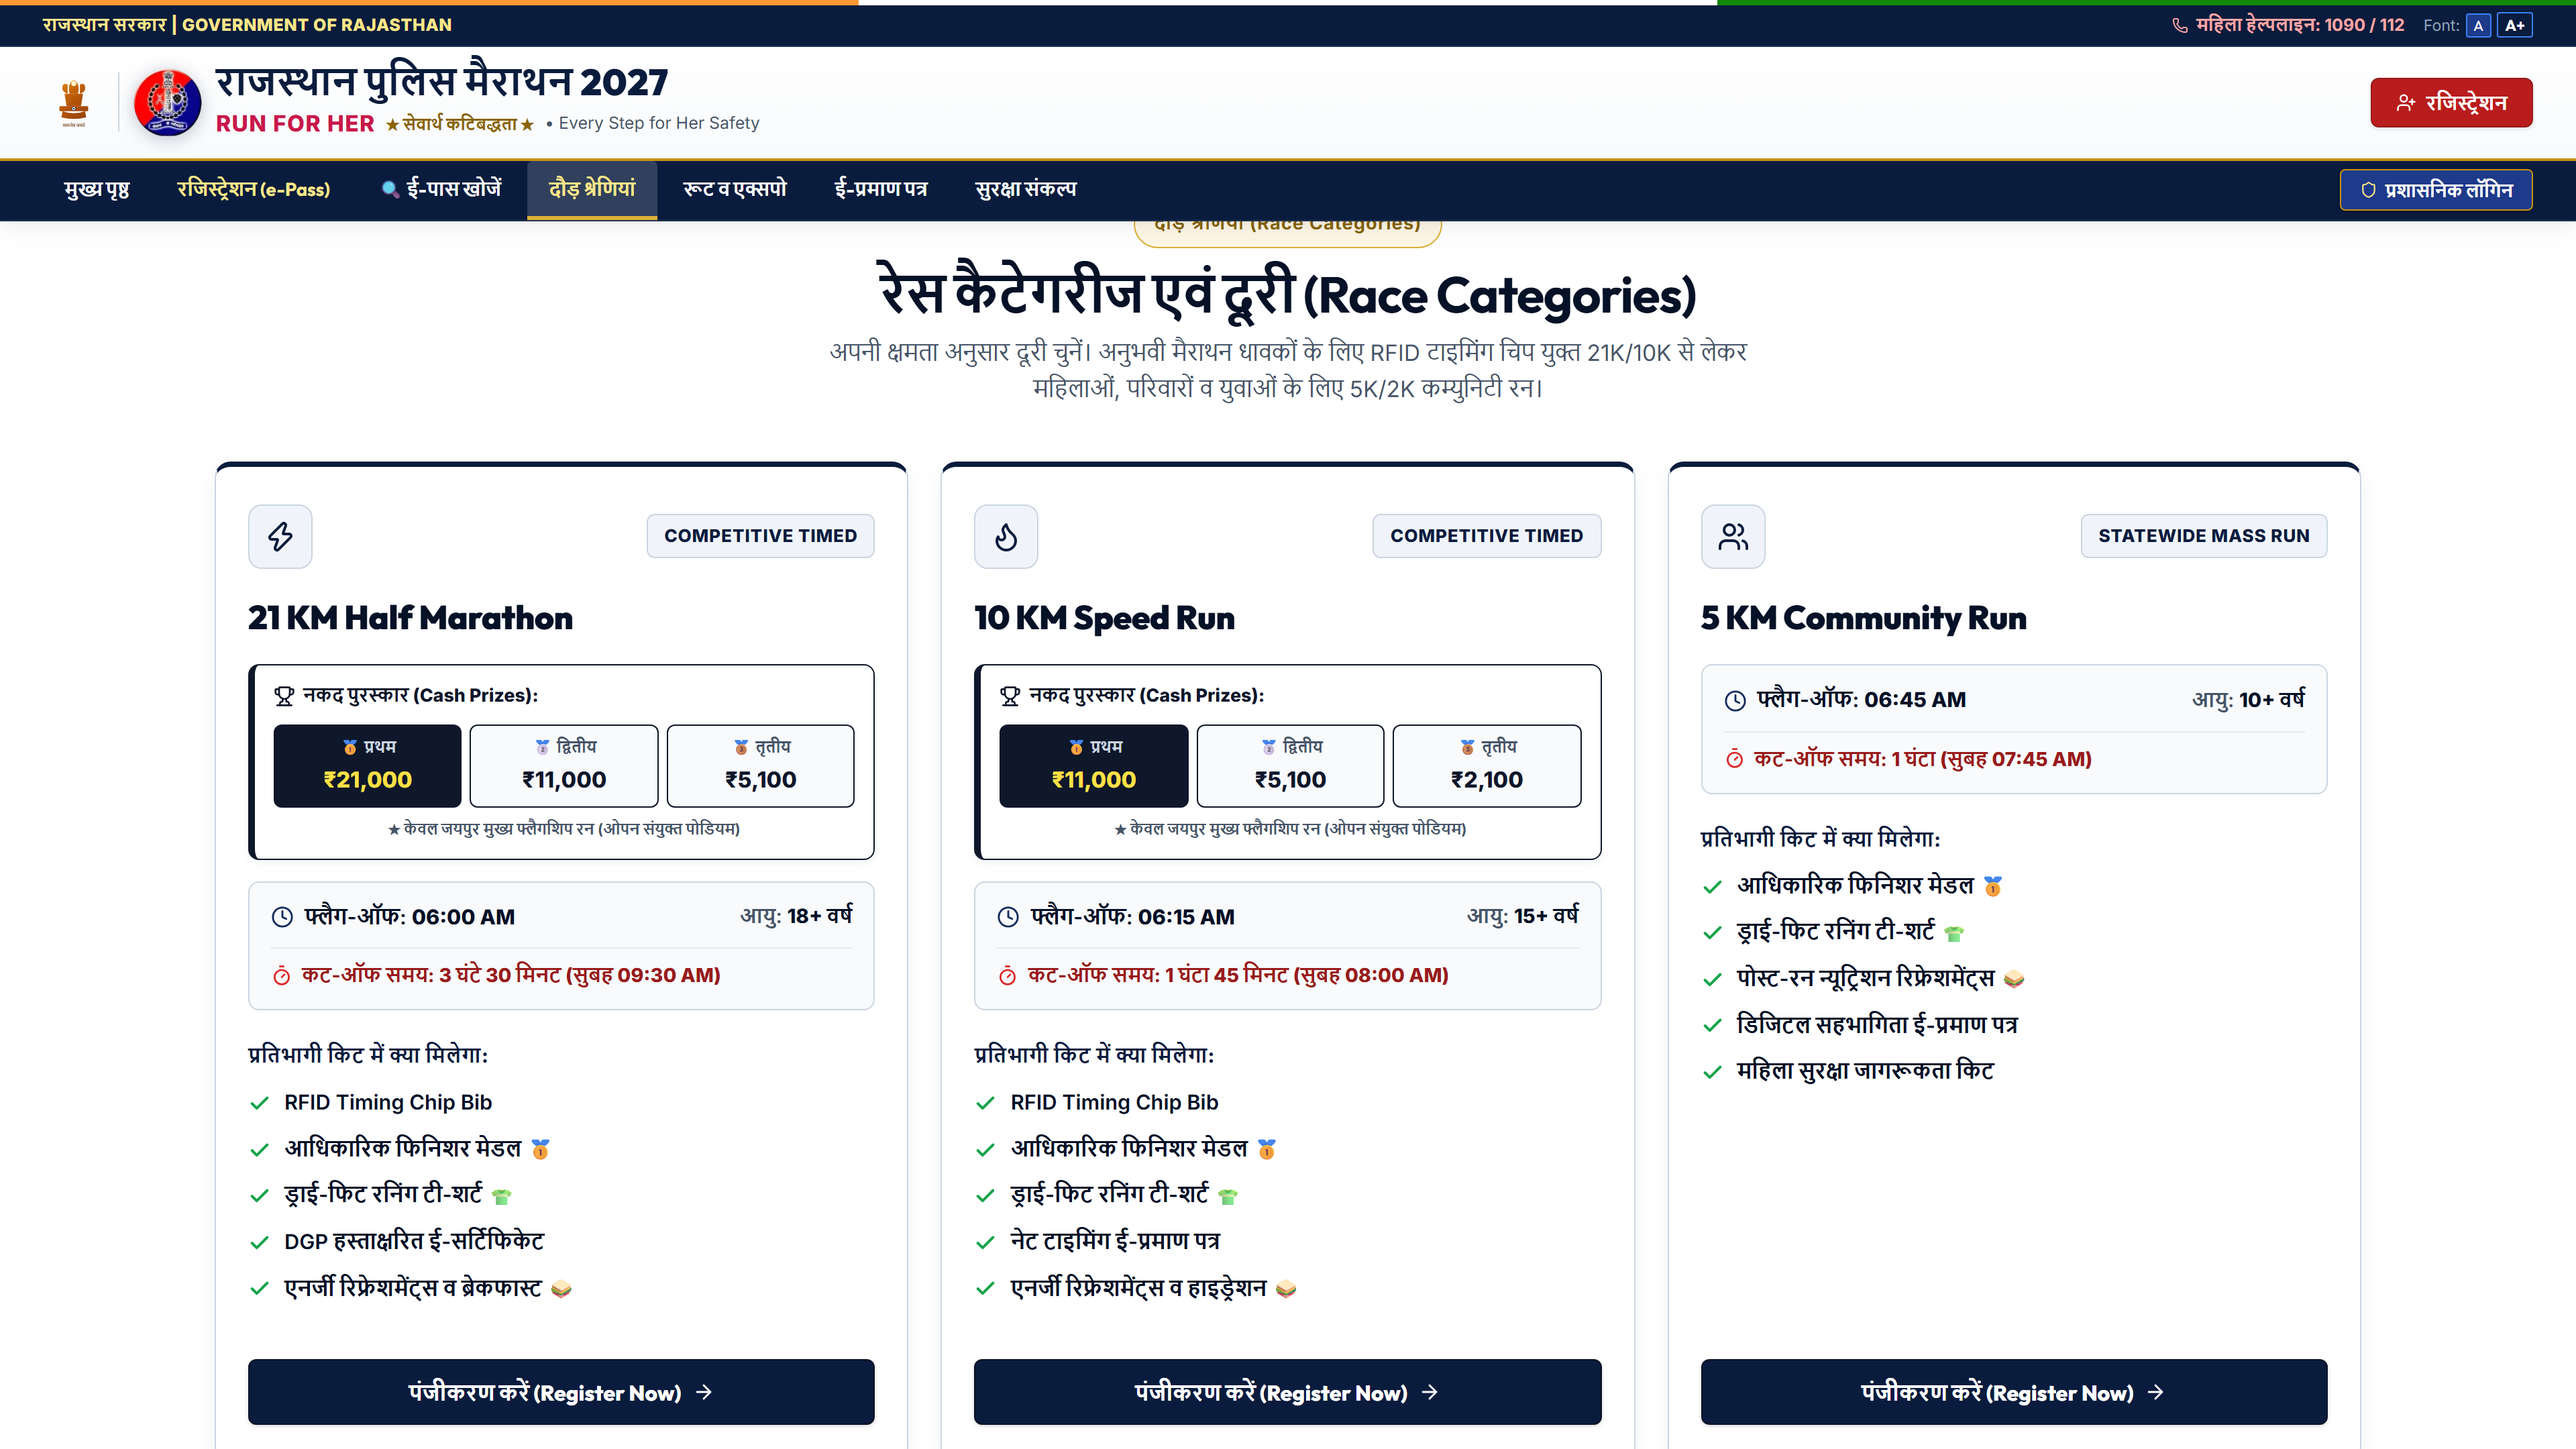
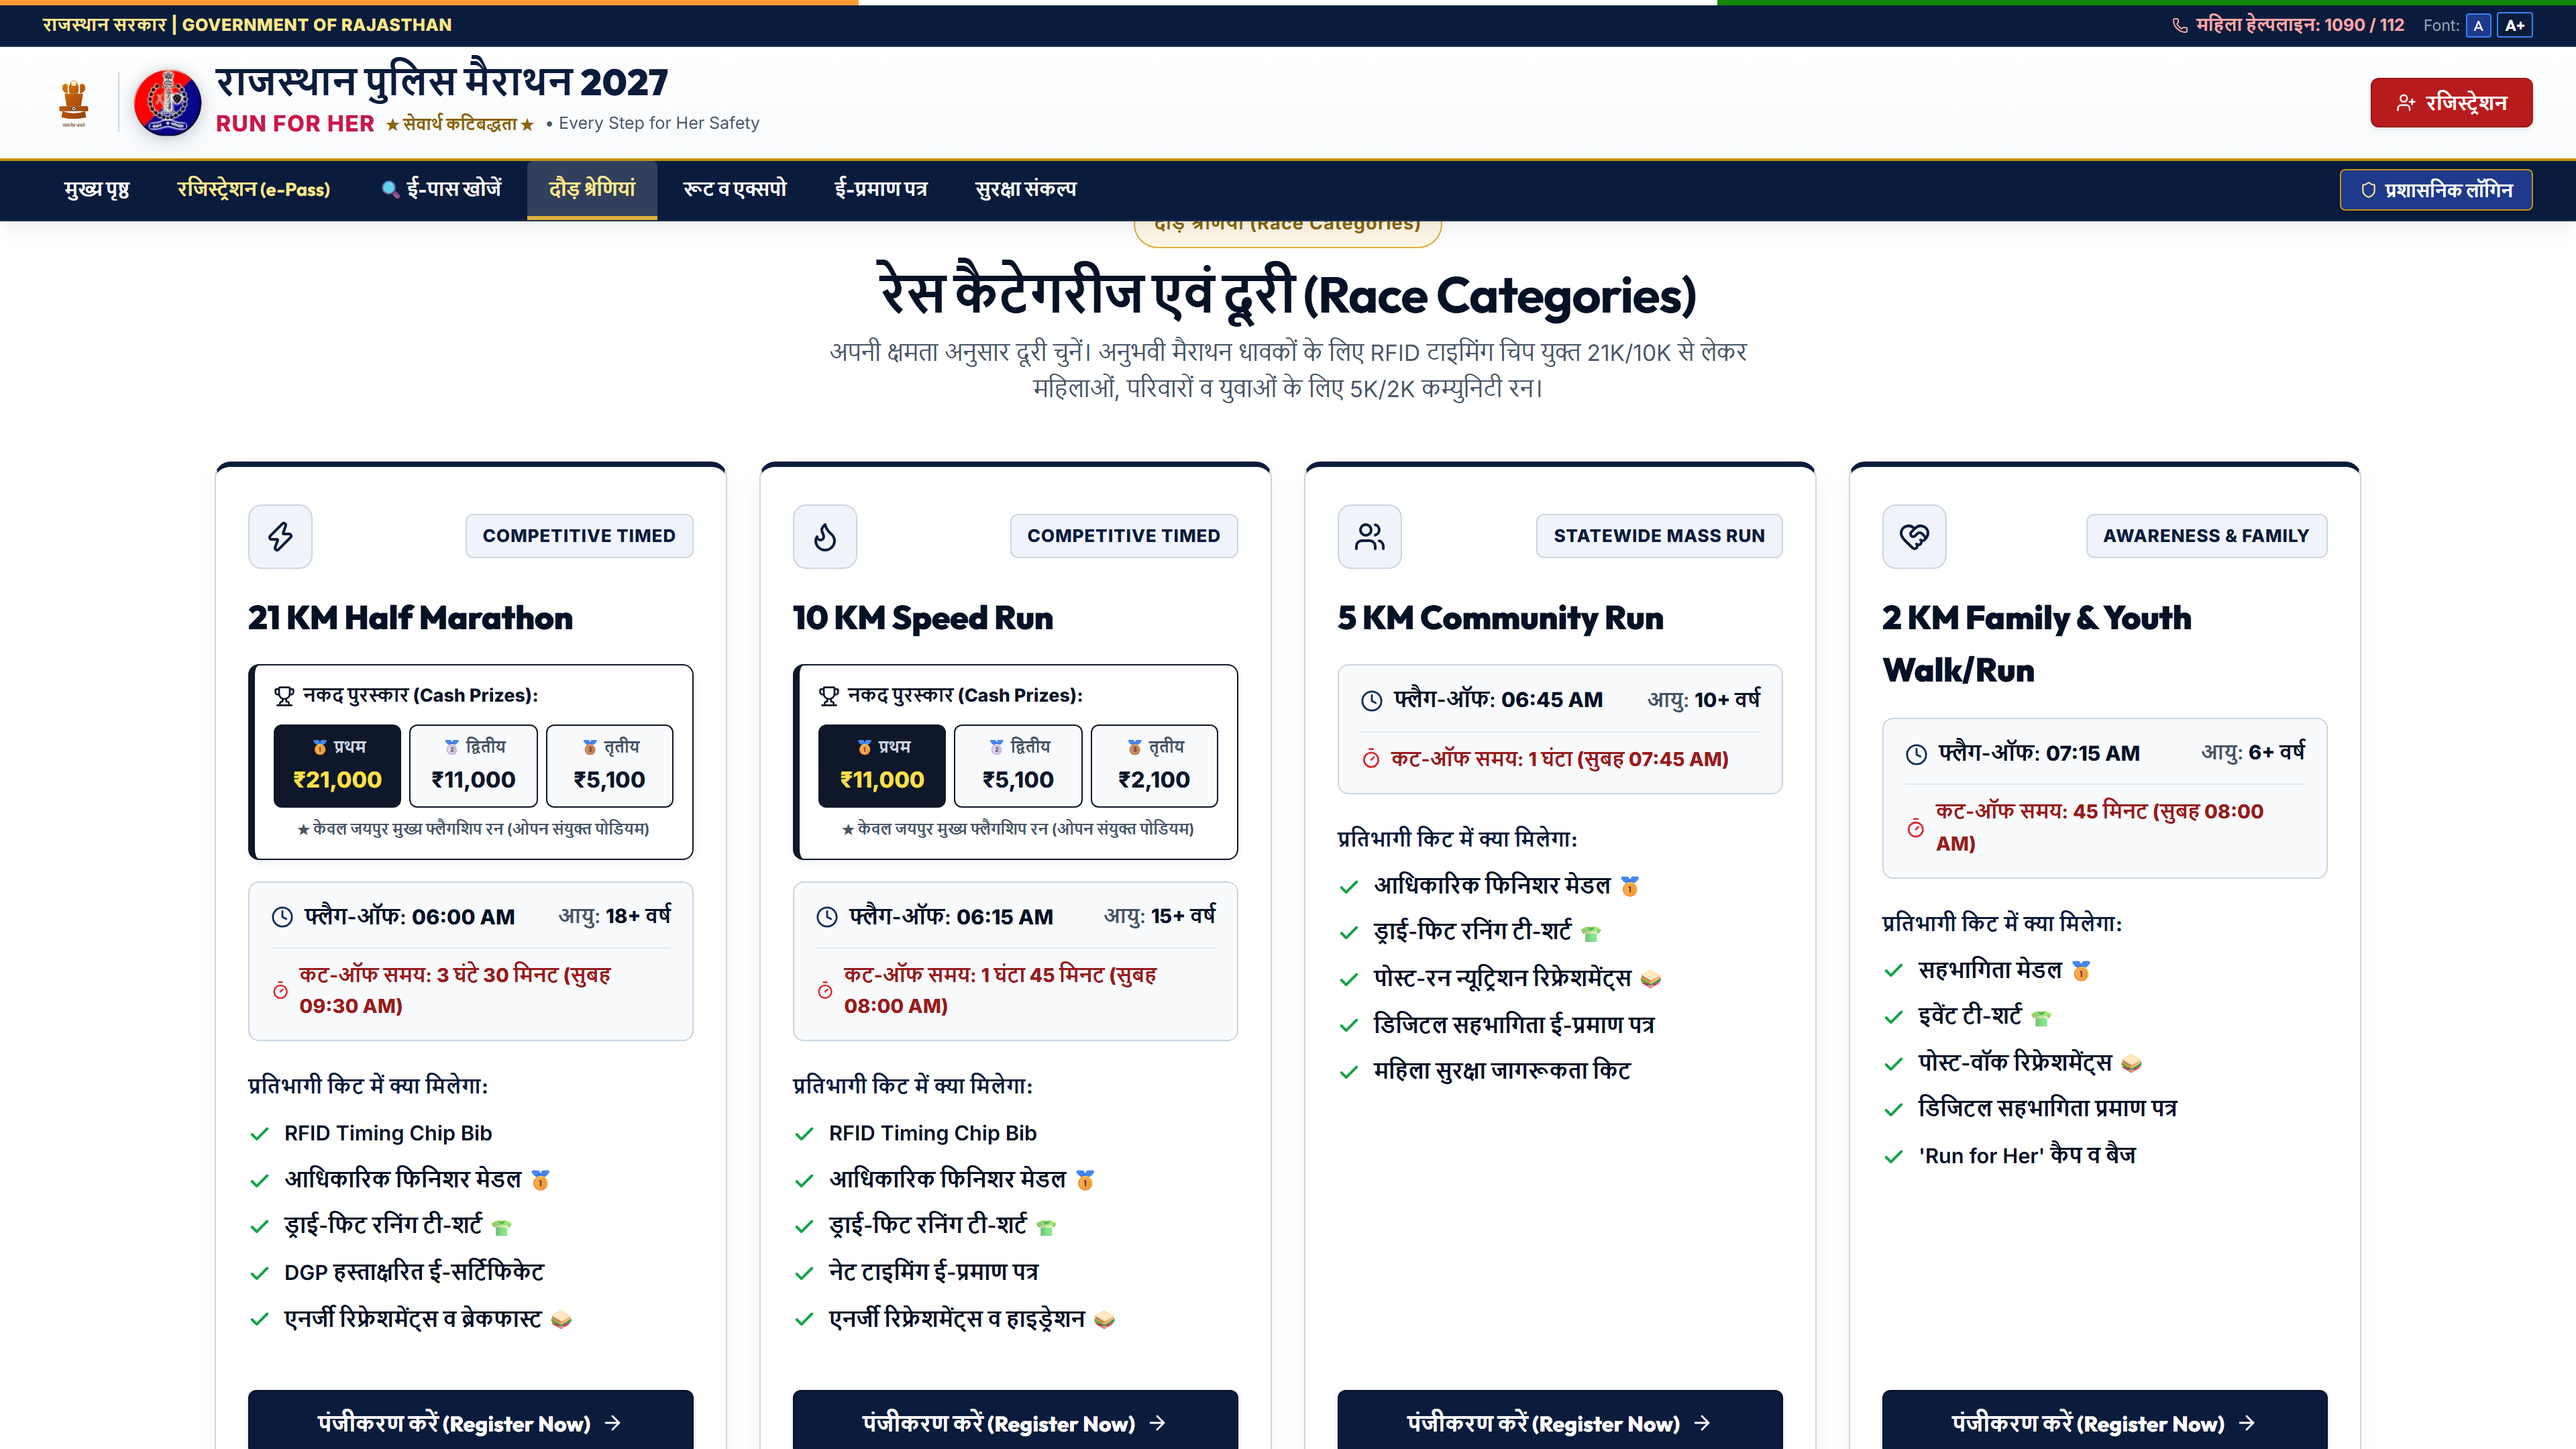
feat: keep strictly 4 categories (21K, 10K, 5K, 2K) and remove inclusive run

diff --git a/src/components/PrizePodiumSection.jsx b/src/components/PrizePodiumSection.jsx
@@ -233,7 +233,7 @@ export function PrizePodiumSection({ onOpenRegister }) {
             </div>
           </div>
 
-          {/* CARD 3: 5KM, 2KM & Adapted Course (Inclusive) */}
+          {/* CARD 3: 5KM & 2KM Community & Family Run */}
           <div style={{
             background: '#ffffff',
             borderRadius: '14px',
@@ -256,7 +256,7 @@ export function PrizePodiumSection({ onOpenRegister }) {
                   padding: '4px 10px',
                   borderRadius: '6px'
                 }}>
-                  5K • 2K • ADAPTED COURSE
+                  5K • 2K RUN
                 </span>
                 <span style={{
                   background: '#f1f5f9',
@@ -272,10 +272,10 @@ export function PrizePodiumSection({ onOpenRegister }) {
               </div>
 
               <h3 style={{ fontSize: '1.45rem', fontWeight: 900, color: '#0f172a', margin: '0 0 6px 0' }}>
-                5K / 2K व Adapted Course
+                5K एवं 2K फन रन
               </h3>
               <p style={{ fontSize: '0.86rem', color: '#64748b', marginBottom: '18px' }}>
-                कम्युनिटी, परिवार, महिलाएं एवं दिव्यांग चैंपियंस (Inclusive Run)
+                कम्युनिटी, परिवार, महिलाएं एवं युवा धावक (Fitness & Pledge Run)
               </p>
 
               {/* Perks Highlights Box (Dark Black Theme) */}
@@ -312,12 +312,6 @@ export function PrizePodiumSection({ onOpenRegister }) {
                     <div style={{ fontSize: '0.76rem', color: '#475569' }}>एनर्जी ब्रेकफास्ट, हाइड्रेशन एवं मेडिकल सपोर्ट</div>
                   </div>
                 </div>
-              </div>
-
-              {/* Special Note for Adapted Course */}
-              <div style={{ borderTop: '1px solid #e2e8f0', paddingTop: '12px', fontSize: '0.8rem', color: '#0f172a', fontWeight: 700, display: 'flex', alignItems: 'center', gap: '6px' }}>
-                <Sparkles size={14} color="#0f172a" />
-                <span>Adapted Course: दिव्यांग धावकों हेतु विशेष वालंटियर एस्कॉर्ट व सुरक्षित ट्रैक</span>
               </div>
             </div>
           </div>

diff --git a/src/data/mockData.js b/src/data/mockData.js
@@ -92,26 +92,6 @@ export const RACE_CATEGORIES = [
     ],
     color: "#10ac84",
     iconName: "HeartHandshake"
-  },
-  {
-    id: "inclusive",
-    name: "Adapted Course (Inclusive & Champions Run)",
-    badge: "Accessible Route",
-    distance: "Adapted Course",
-    minAge: 8,
-    flagOff: "07:00 AM",
-    cutOffTime: "1 घंटा (सुबह 08:00 AM)",
-    reporting: "05:45 AM",
-    description: "Specially dedicated adapted category for differently-abled athletes and senior citizens with volunteer escort support.",
-    perks: [
-      "विशेष चैंपियंस मेडल 🥇",
-      "आधिकारिक इवेंट टी-शर्ट 👕",
-      "विशेष हाइड्रेशन व रिफ्रेशमेंट्स 🥪",
-      "असिस्टेड केयर व सपोर्ट",
-      "सम्मान ई-प्रमाण पत्र"
-    ],
-    color: "#a55eea",
-    iconName: "Sparkles"
   }
 ];
 

diff --git a/server/apiRouter.js b/server/apiRouter.js
@@ -41,18 +41,14 @@ const CATEGORY_NAMES = {
   "21k": "21 KM Half Marathon",
   "10k": "10 KM Speed Challenge",
   "5k": "5 KM Community Run",
-  "2k": "2 KM Family & Senior Run",
-  "inclusive": "Adapted Course (Inclusive & Champions Run)",
-  "adapted": "Adapted Course (Inclusive & Champions Run)"
+  "2k": "2 KM Family & Senior Run"
 };
 
 export const CATEGORY_FEES = {
   "21k": 0,
   "10k": 0,
   "5k": 0,
-  "2k": 0,
-  "inclusive": 0,
-  "adapted": 0
+  "2k": 0
 };
 
 export const isJaipurDistrict = (districtId, districtName = '') => {

diff --git a/src/components/Categories.jsx b/src/components/Categories.jsx
@@ -28,7 +28,11 @@ export function Categories({ onSelectCategory }) {
           </p>
         </div>
 
-        <div className="grid-3" style={{ gap: '24px' }}>
+        <div style={{
+          display: 'grid',
+          gridTemplateColumns: 'repeat(auto-fit, minmax(270px, 1fr))',
+          gap: '24px'
+        }}>
           {RACE_CATEGORIES.map((cat) => (
             <div 
               key={cat.id} 

diff --git a/server/security.js b/server/security.js
@@ -126,9 +126,6 @@ export function generateBibNumber(categoryId, counter) {
       return `RJ-03K-${pad}`;
     case "2k":
       return `RJ-02K-${pad}`;
-    case "inclusive":
-    case "adapted":
-      return `RJ-INC-${pad}`;
     default:
       return `RJ-GEN-${pad}`;
   }
